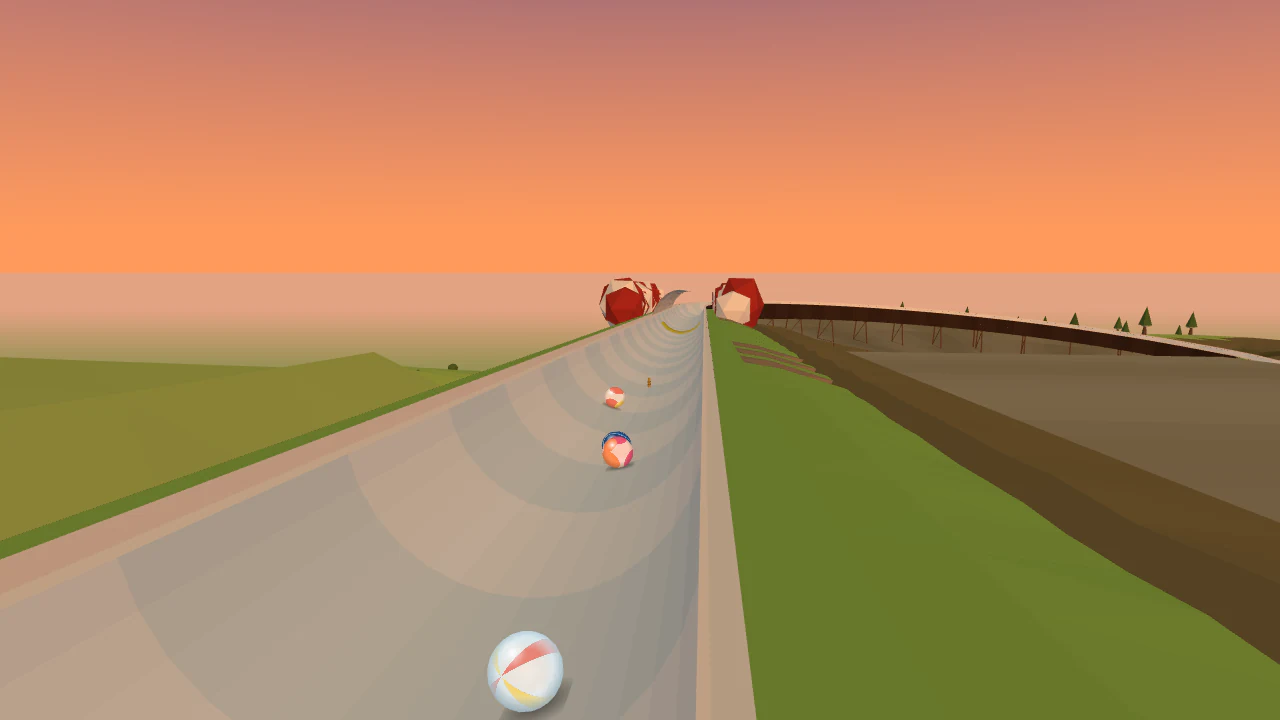
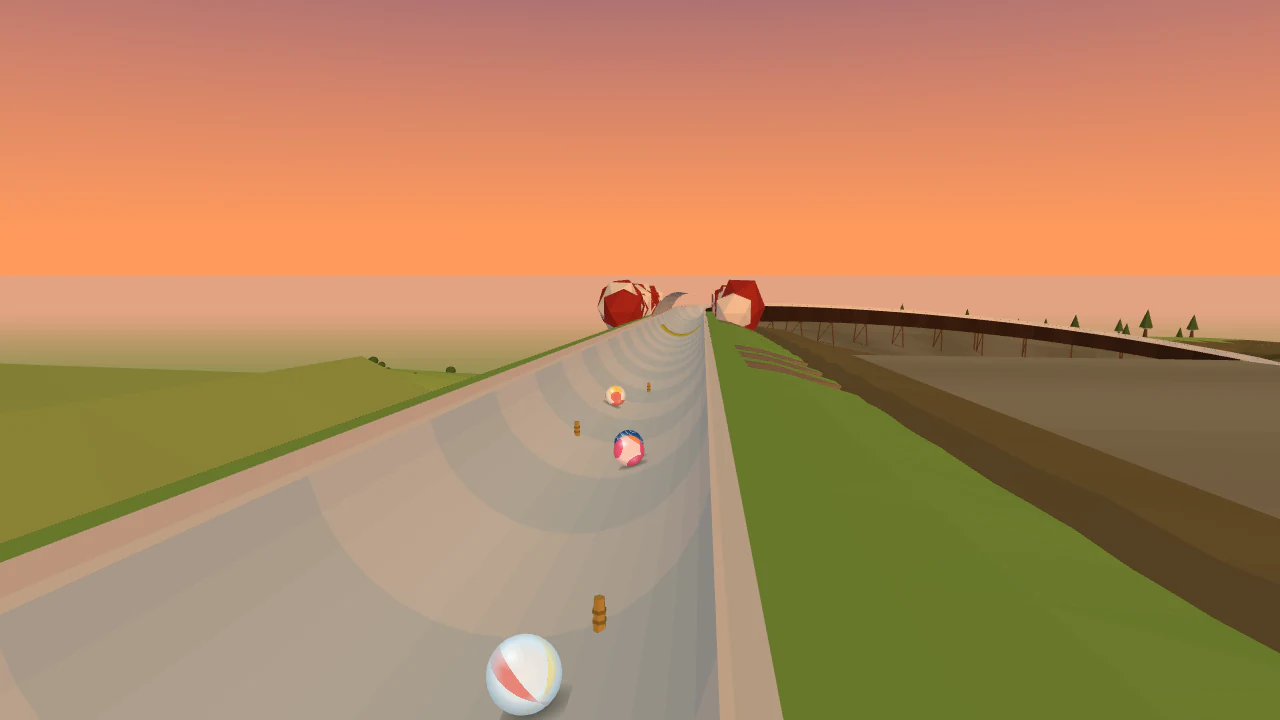
Rivers WIP: Mississippi levee pegs later
Claude-Session: https://claude.ai/code/session_011vSSkqNPL9kncfzrwF15wS

diff --git a/src/trackKit/layouts.js b/src/trackKit/layouts.js
@@ -1323,9 +1323,9 @@ const LAYOUTS = {
       obstacles: [parked({ costume: c.parked, at: 0.2, side: L, length: 6 }), peg({ costume: c.peg, at: 0.45, line: 'right' })], features: [rumble({ from: 0.7, to: 0.95, count: 3 })],
     },
   ],
-  /** L76 Steamer pass (Rivers): a straight along the levee (three pegs), a straight through a paddle steamer (a tunnel; a boost), a long sweep out over the bayou (it flies here), a drop, the hairpin, S-bends through the river town, a slalom drop, a sweep to the landing and a parked piece and a peg at the run-in. */
+  /** L76 Steamer pass (Rivers): a straight along the levee (two pegs), a straight through a paddle steamer (a tunnel; a boost), a long sweep out over the bayou (it flies here), a drop, the hairpin, S-bends through the river town, a slalom drop, a sweep to the landing and a parked piece and a peg at the run-in. */
   'steamer-pass': (L, R, c) => [
-    { key: 'levee', name: 'Levee straight', shape: straight(120, { grade: 0.1 }), obstacles: [peg({ costume: c.peg, at: 0.2, line: 'left' }), peg({ costume: c.peg, at: 0.35, line: 'right' }), peg({ costume: c.peg, at: 0.5, line: 'center' })], billboards: 1 },
+    { key: 'levee', name: 'Levee straight', shape: straight(120, { grade: 0.1 }), obstacles: [peg({ costume: c.peg, at: 0.5, line: 'center' }), peg({ costume: c.peg, at: 0.7, line: 'left' })], billboards: 1 },
     { key: 'steamer', name: 'Through the steamer', shape: straight(70, { grade: 0.1 }), features: [boost({ at: 0.1 })] },
     { key: 'bayou', name: 'Bayou sweep', shape: sweep({ side: L, radius: 90, degrees: 140, grade: 0.085 }), billboards: 2 },
     { key: 'drop', name: 'Drop', shape: plunge(45, { grade: 0.22, from: 0.085 }) },

diff --git a/src/tracks/README.md b/src/tracks/README.md
@@ -149,7 +149,7 @@ module.exports = track({
   | `golden-lap` (track and field) | sweep, drop, pegStraight, brakingStraight, hairpin, spin, goldenSweep, sBends, lastStraight |
   | `bridge-slalom` (rivers) | quay (two pegs), rise (a short climb), pillars (a slalom under a chain bridge), flyOut, drop, brakingStraight, hairpin, island (a spiral), farBank (S-bends), lastStraight |
   | `market-maze` (rivers) | boats (a slalom among the market boats), bankBends (S-bends), pierRamp (a short climb), pierDrop, brakingStraight, hairpin, bankSweep, spin, underPier, pontoon (two pegs), lastStraight |
-  | `steamer-pass` (rivers) | levee (three pegs), steamer (a tunnel through a paddle steamer; a boost), bayou, drop, brakingStraight, hairpin, town (S-bends), slalomDrop, landing, lastStraight |
+  | `steamer-pass` (rivers) | levee (two pegs), steamer (a tunnel through a paddle steamer; a boost), bayou, drop, brakingStraight, hairpin, town (S-bends), slalomDrop, landing, lastStraight |
   | `falls-edge` (rivers) | lipBend, lip (pegs), falls (a waterfall), gorge (a slalom), spin, brakingStraight, hairpin, upstream (S-bends), lastStraight |
   | `lock-staircase` (rivers) | locks (five steps), damCrest (a short climb), bridgeRun (a steep slalom drop), riverSweep, sBends, spin, brakingStraight, hairpin, lastStraight |
 
